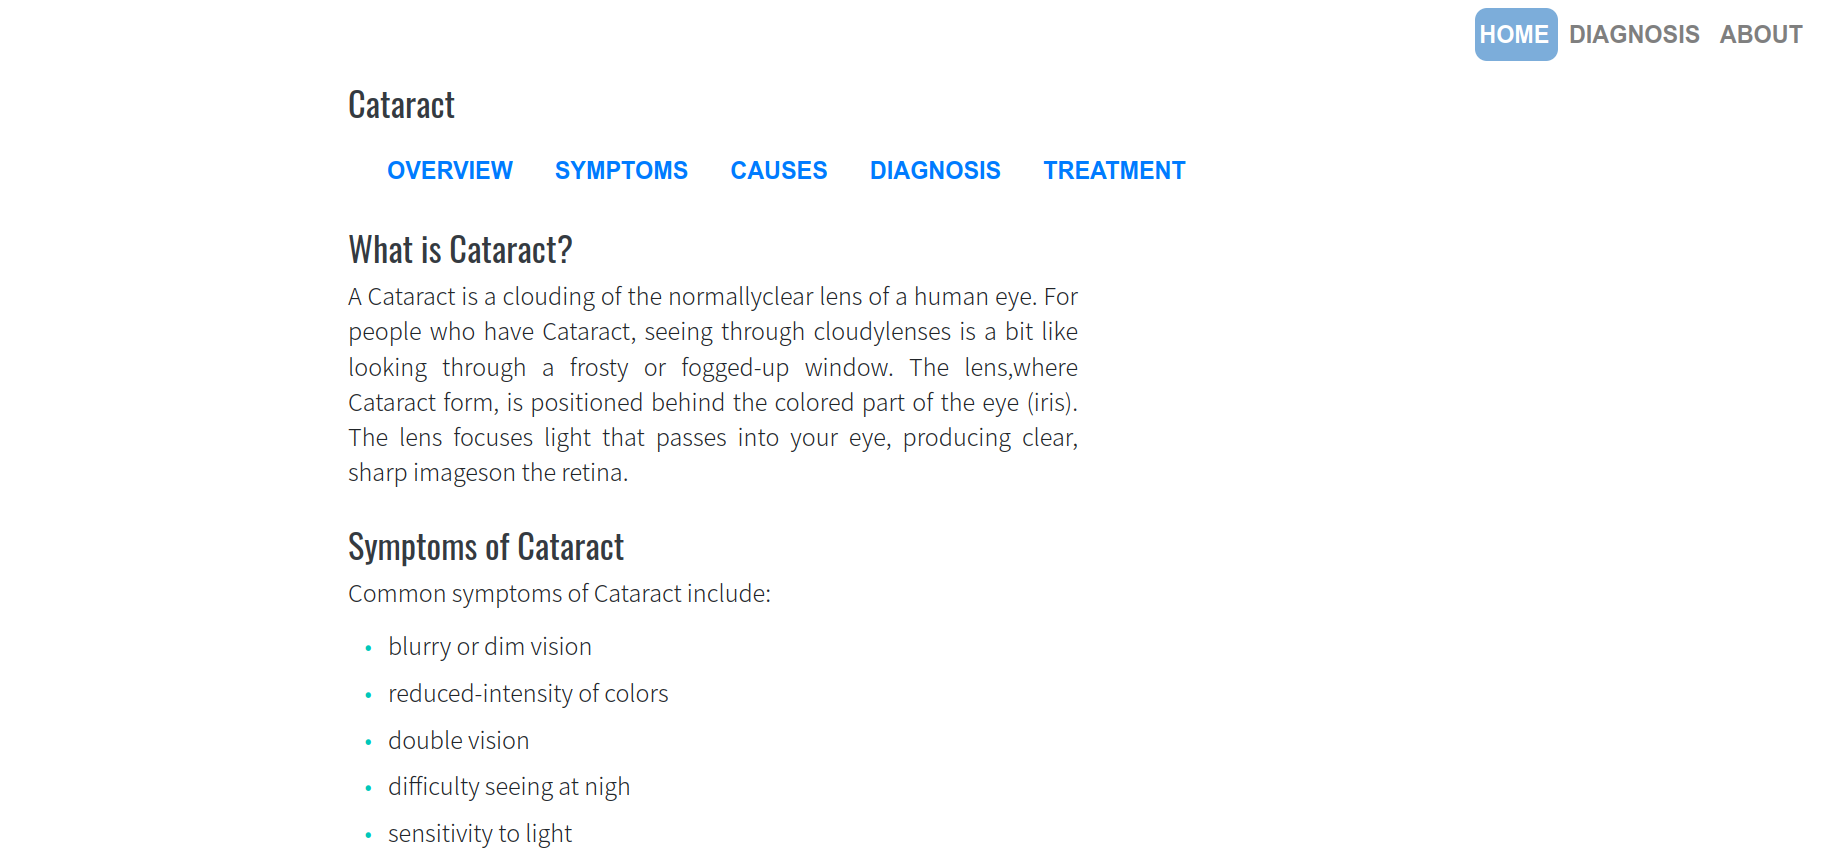
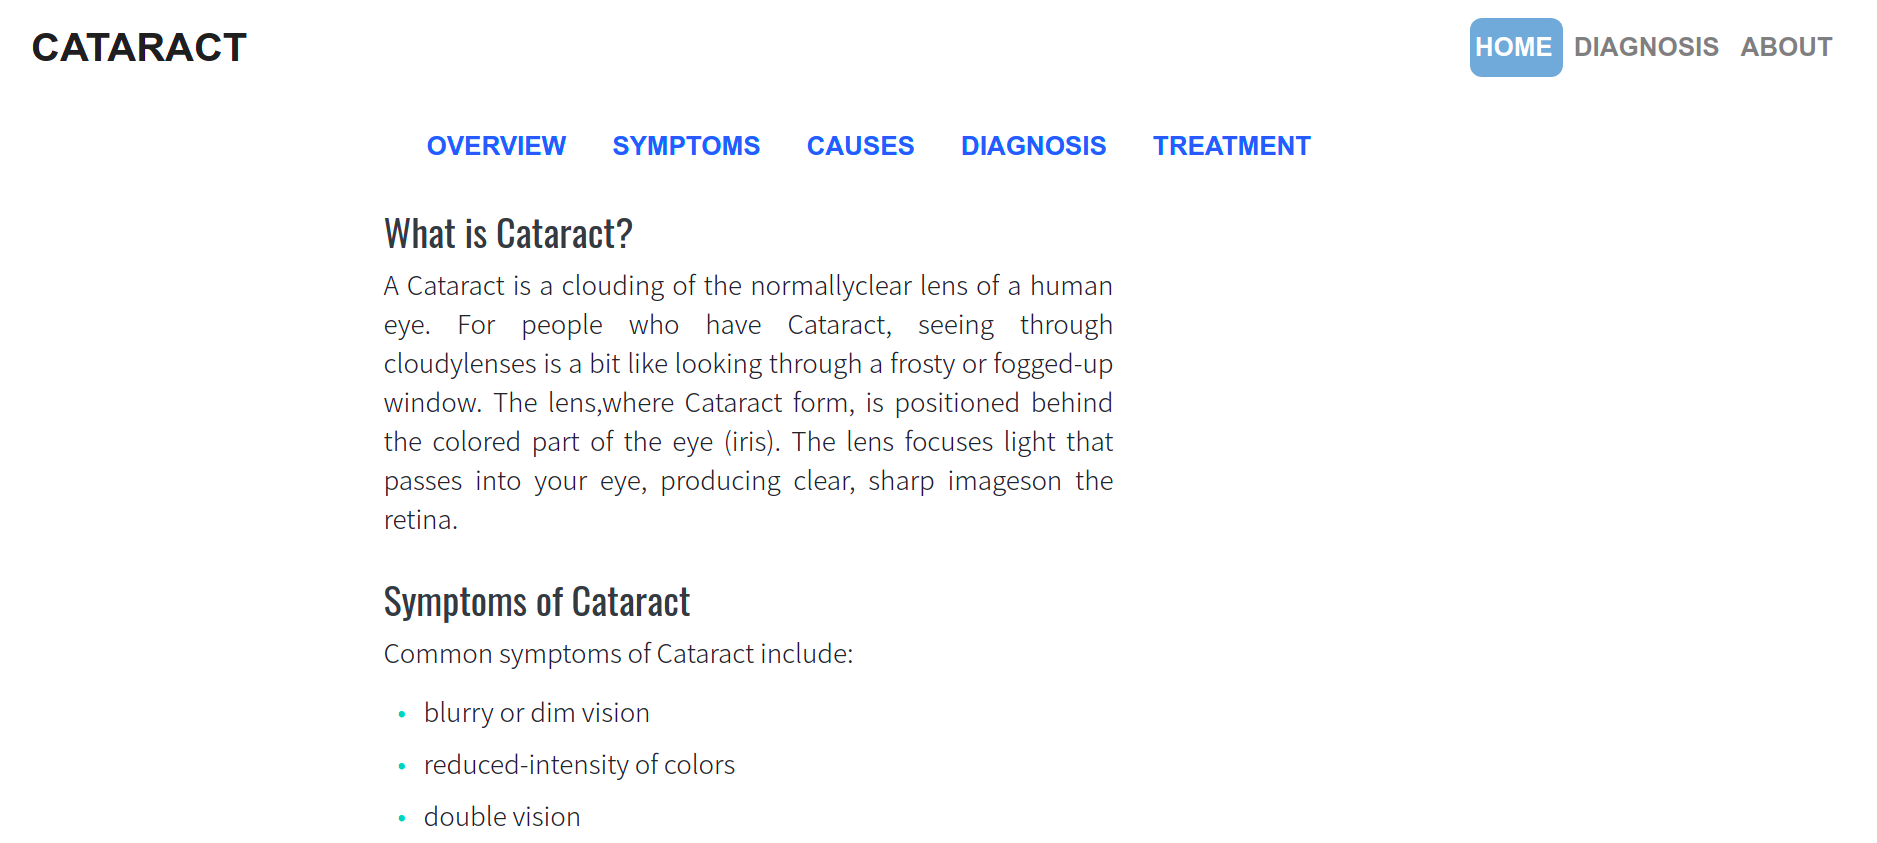
updated Ui

diff --git a/flask-app/preditions_result.html b/flask-app/preditions_result.html
@@ -87,34 +87,35 @@
     <section class="about-cataract">
       <div class="container">
         <div class="row">
-          <div class="col-lg-8 col-sm-12 mt-3">
-            <h2 class="text-dark heading" style="text-align: left">
+          <div class="col-lg-13 col-sm-12 mt-3">
+            <h2 class="text-dark heading" style="text-align: center">
               Cataract Detector - Diagnosis Result
             </h2>
           </div>
         </div>
         <div class="row mt-4">
-          <div class="col-md-4">
-            <h6 class="heading mr-5" style="text-align: center">Left Eye</h6>
-            <img
-              src= "../left_eye.jpg"
+          <div class="col-md-6">
+            <h6 class="heading" style="text-align: center">Left Eye</h6>
+            <!-- <img
+              src= "flask-app/left_eye.jpg"
+              class="ml-5"
+              alt="Eye Image"
+              id="id1"
+              onload="showImage()"
+            /> -->
+            <h4 class="text-info"  style= "text-align: center">{{ model_pred_left }}</h4>
+          </div>
+          <div class="col-md-6">
+            <h4 class="heading" style="text-align: center">Right Eye</h4>
+            <!-- <img
+              src="flask-app/right_eye.jpg"
               class="ml-5"
               alt="Eye Image"
               id="eye-image"
-            />
-            <h4 class="text-info ml-5">{{ model_pred_left }}</h4>
+            /> -->
+            <h4 class="text-info" style="text-align: center">{{ model_pred_right }}</h4>
           </div>
-          <div class="col-md-4">
-            <h4 class="heading mr-4" style="text-align: center">Right Eye</h4>
-            <img
-              src="../right_eye.jpg"
-              class="ml-5"
-              alt="Eye Image"
-              id="eye-image"
-            />
-            <h4 class="text-info ml-5">{{ model_pred_right }}</h4>
-          </div>
-          <div class="col-8 mt-4">
+          <div class="col-12 mt-4">
             <div class="row justify-content-center">
               <a href="upload.html">
                 <button
@@ -147,5 +148,10 @@
     <!-- template scripts -->
     <script src="assets/js/theme.js"></script>
     <script src="assets/js/testimonials-owl.carousel.config.js"></script>
+    <script type="text/javascript">
+     function showImage() {
+  $('#id1').attr('src', 'flask-app/right_eye.jpg');
+}
+    </script>
   </body>
 </html>

diff --git a/flask-app/index.html b/flask-app/index.html
@@ -25,7 +25,11 @@
 <body>
     <header>
         <div class="container-fluid">
+
             <nav class="navbar navbar-expand-lg navbar-light m-2">
+               
+                      <span class="navbar-brand mb-0 h3">Cataract</span>
+                
                 <button class="navbar-toggler" type="button" data-toggle="collapse" data-target="#navbarNav"
                     aria-controls="navbarNav" aria-expanded="false" aria-label="Toggle navigation">
                     <span class="navbar-toggler-icon"></span>
@@ -50,12 +54,12 @@
     <section class="cataract-details">
         <div class="container">
             <div class="row">
-                <div class="col-8">
-                    <h2 class="text-dark heading" style="text-align:left">
+                <div class="col-12">
+                    <!-- <h1 class="text-dark heading" style="text-align:center">
                         Cataract
-                    </h2>
+                    </h1> -->
                 </div>
-                <div class="col-md-8 col-sm-12 col-lg-10">
+                <div class="col-md-12 col-sm-12 col-lg-12">
                     <nav id="navbar-example2" class="navbar navbar-light">
                         <ul class="nav nav-pills mr-auto">
                             <li class="nav-item">

diff --git a/flask-app/upload.html b/flask-app/upload.html
@@ -55,7 +55,7 @@
                 <div class="col-md-9">
                     <div class="row">
                         <div class="col-12">
-                            <h2 class="text-dark heading" style="text-align:left;">
+                            <h2 class="text-dark heading" style="text-align:center;">
                                 CATARACT DETECTOR
                             </h2>
                         </div>
@@ -98,15 +98,12 @@
                 </div>
 
                 <div class="col-md-3 bg-light inst-cataract">
-                    <h3 class="heading text-warning"> 
+                    <h3 class="heading text-warning" style="text-align:center;"> 
                         Please Follow
                     </h3>
                     <ul>
                         <li class="inst">
                             Upload clear picture of full face
-                        </li>
-                        <li class="inst">
-                            Upload image with high resolution
                         </li>
                         <li class="inst">
                             Upload image with high resolution

diff --git a/app.py b/app.py
@@ -91,8 +91,8 @@ def uploaded_chest():
    model= load_model('models/model.hdf5')
    left_url="left_eye.jpg"
    right_url="right_eye.jpg"
-   shutil.copy2('left_eye.jpg', 'flask-app/assets/image')
-   shutil.copy2('right_eye.jpg', 'flask-app/assets/image')
+   shutil.copy2('left_eye.jpg', 'flask-app')
+   shutil.copy2('right_eye.jpg', 'flask-app')
    left_image = tensorflow.keras.preprocessing.image.load_img('left_eye.jpg',target_size=(224, 224))
    right_image = tensorflow.keras.preprocessing.image.load_img('right_eye.jpg',target_size=(224, 224))
    left_image = tensorflow.keras.preprocessing.image.img_to_array(left_image)
